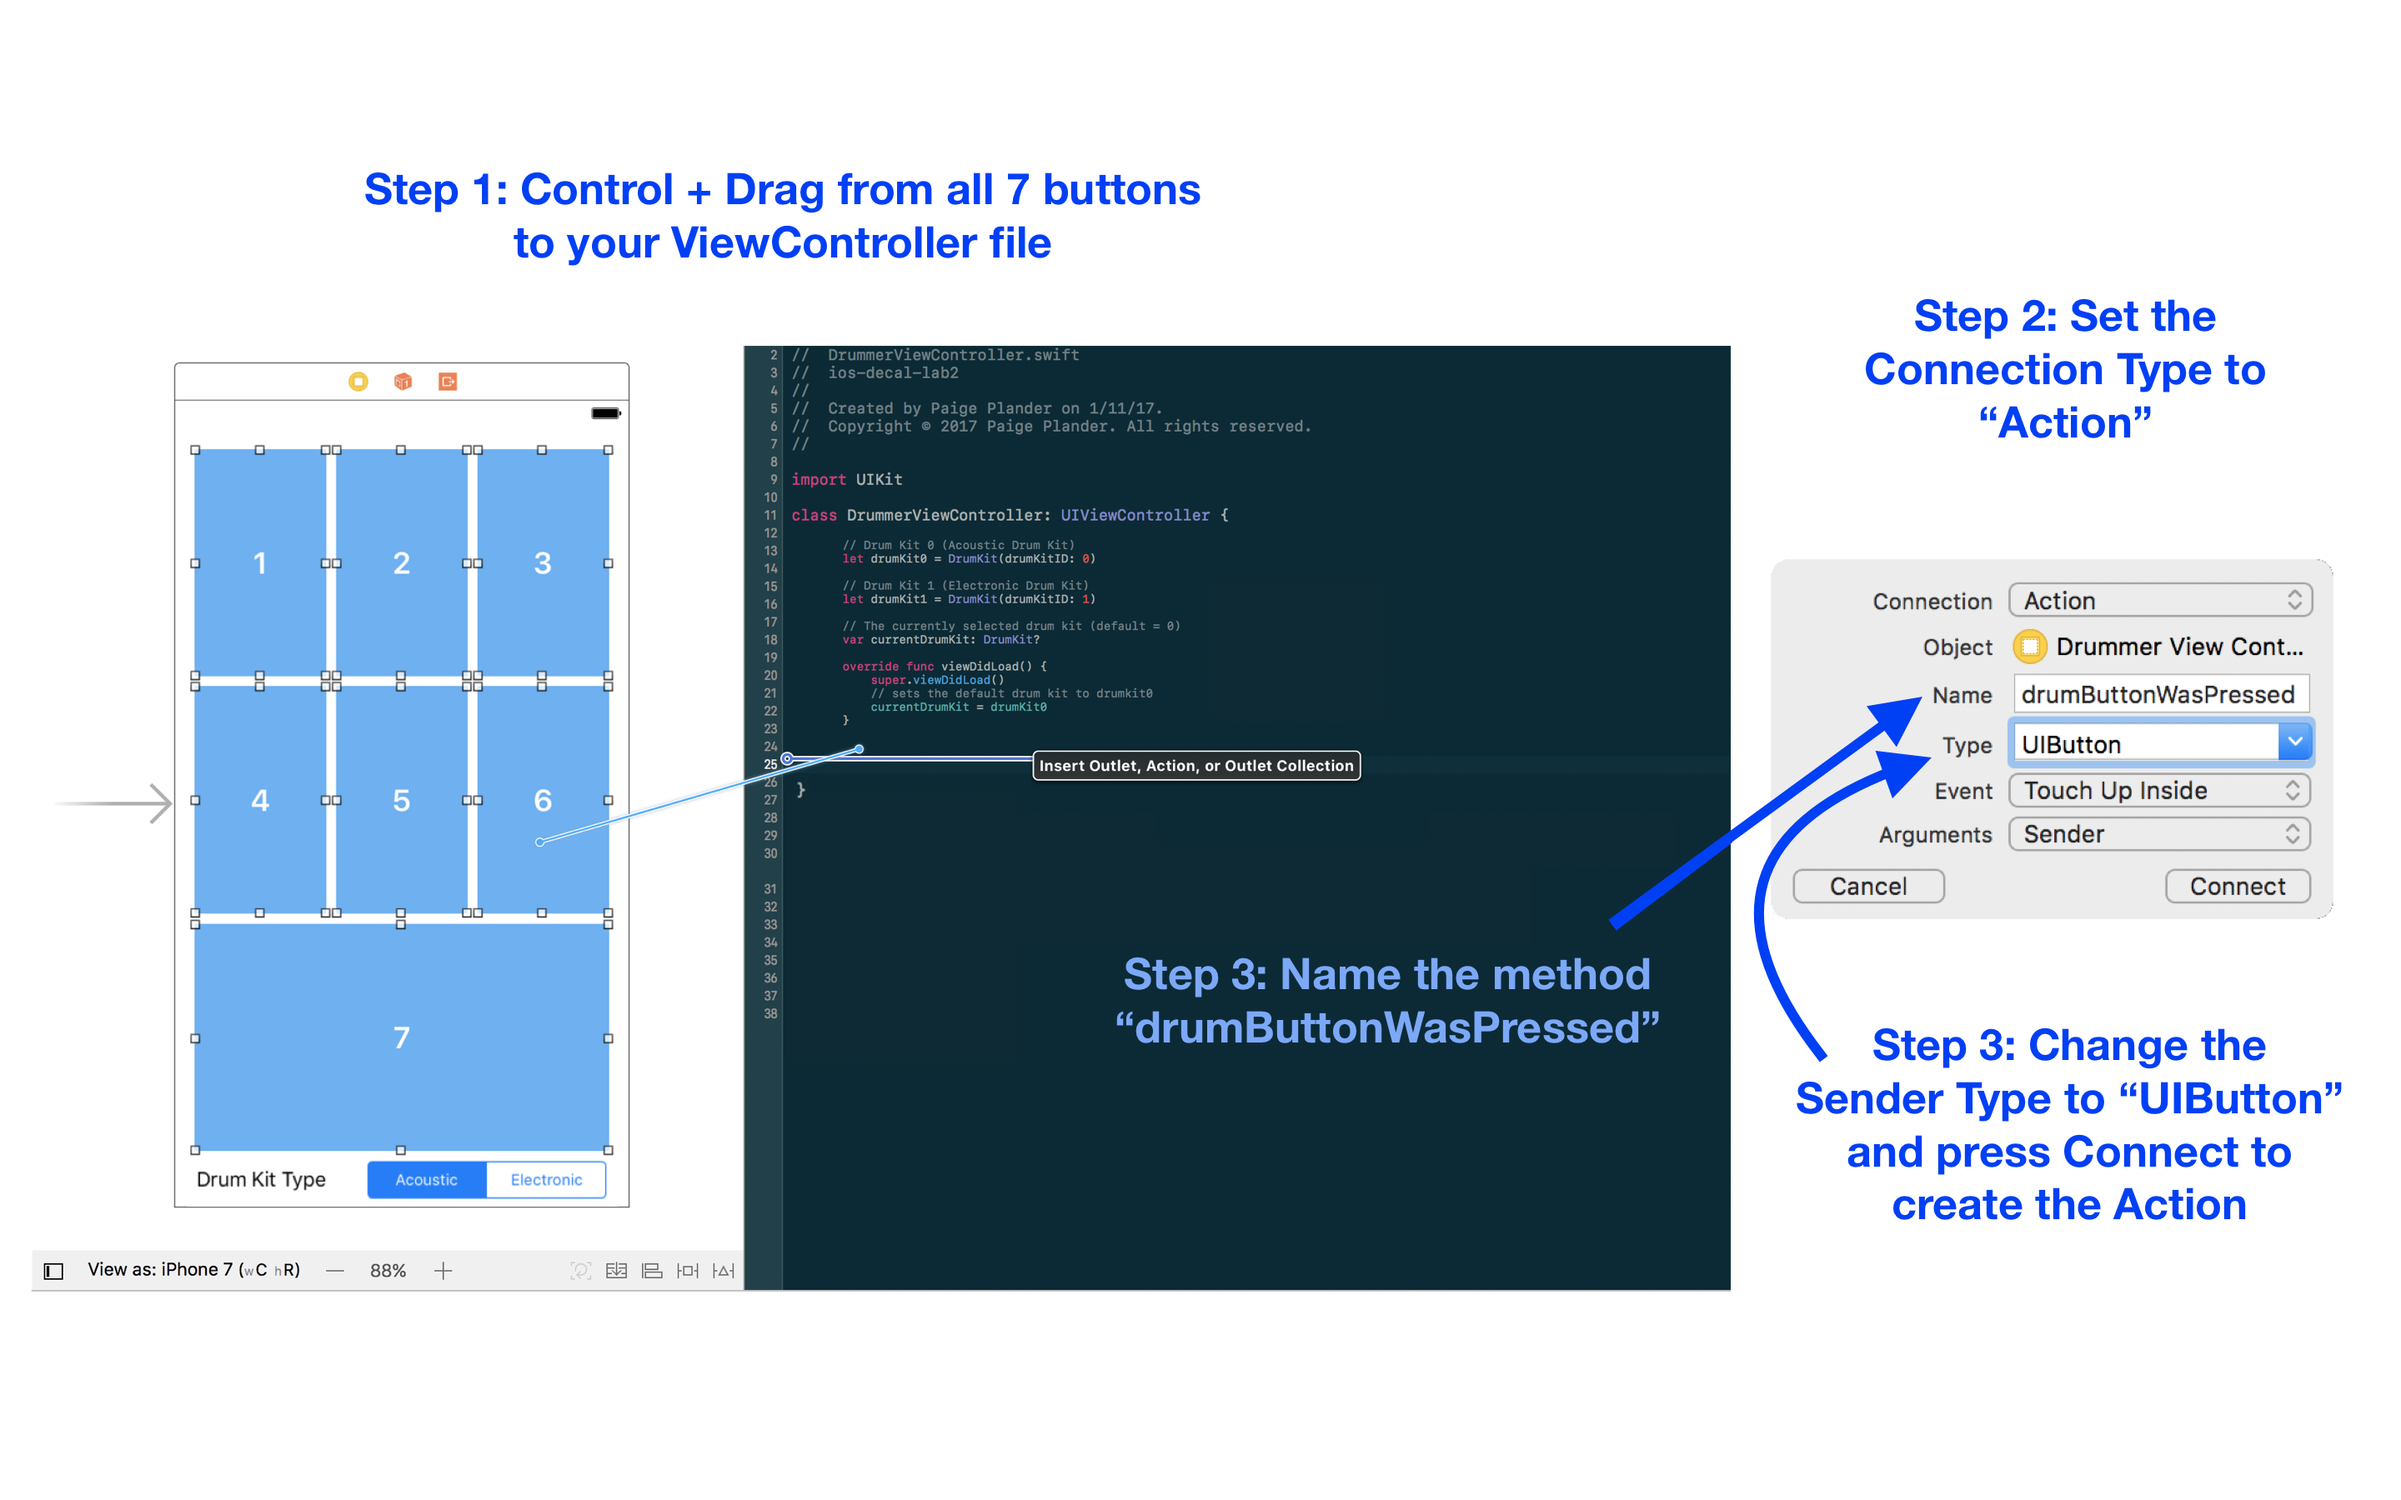
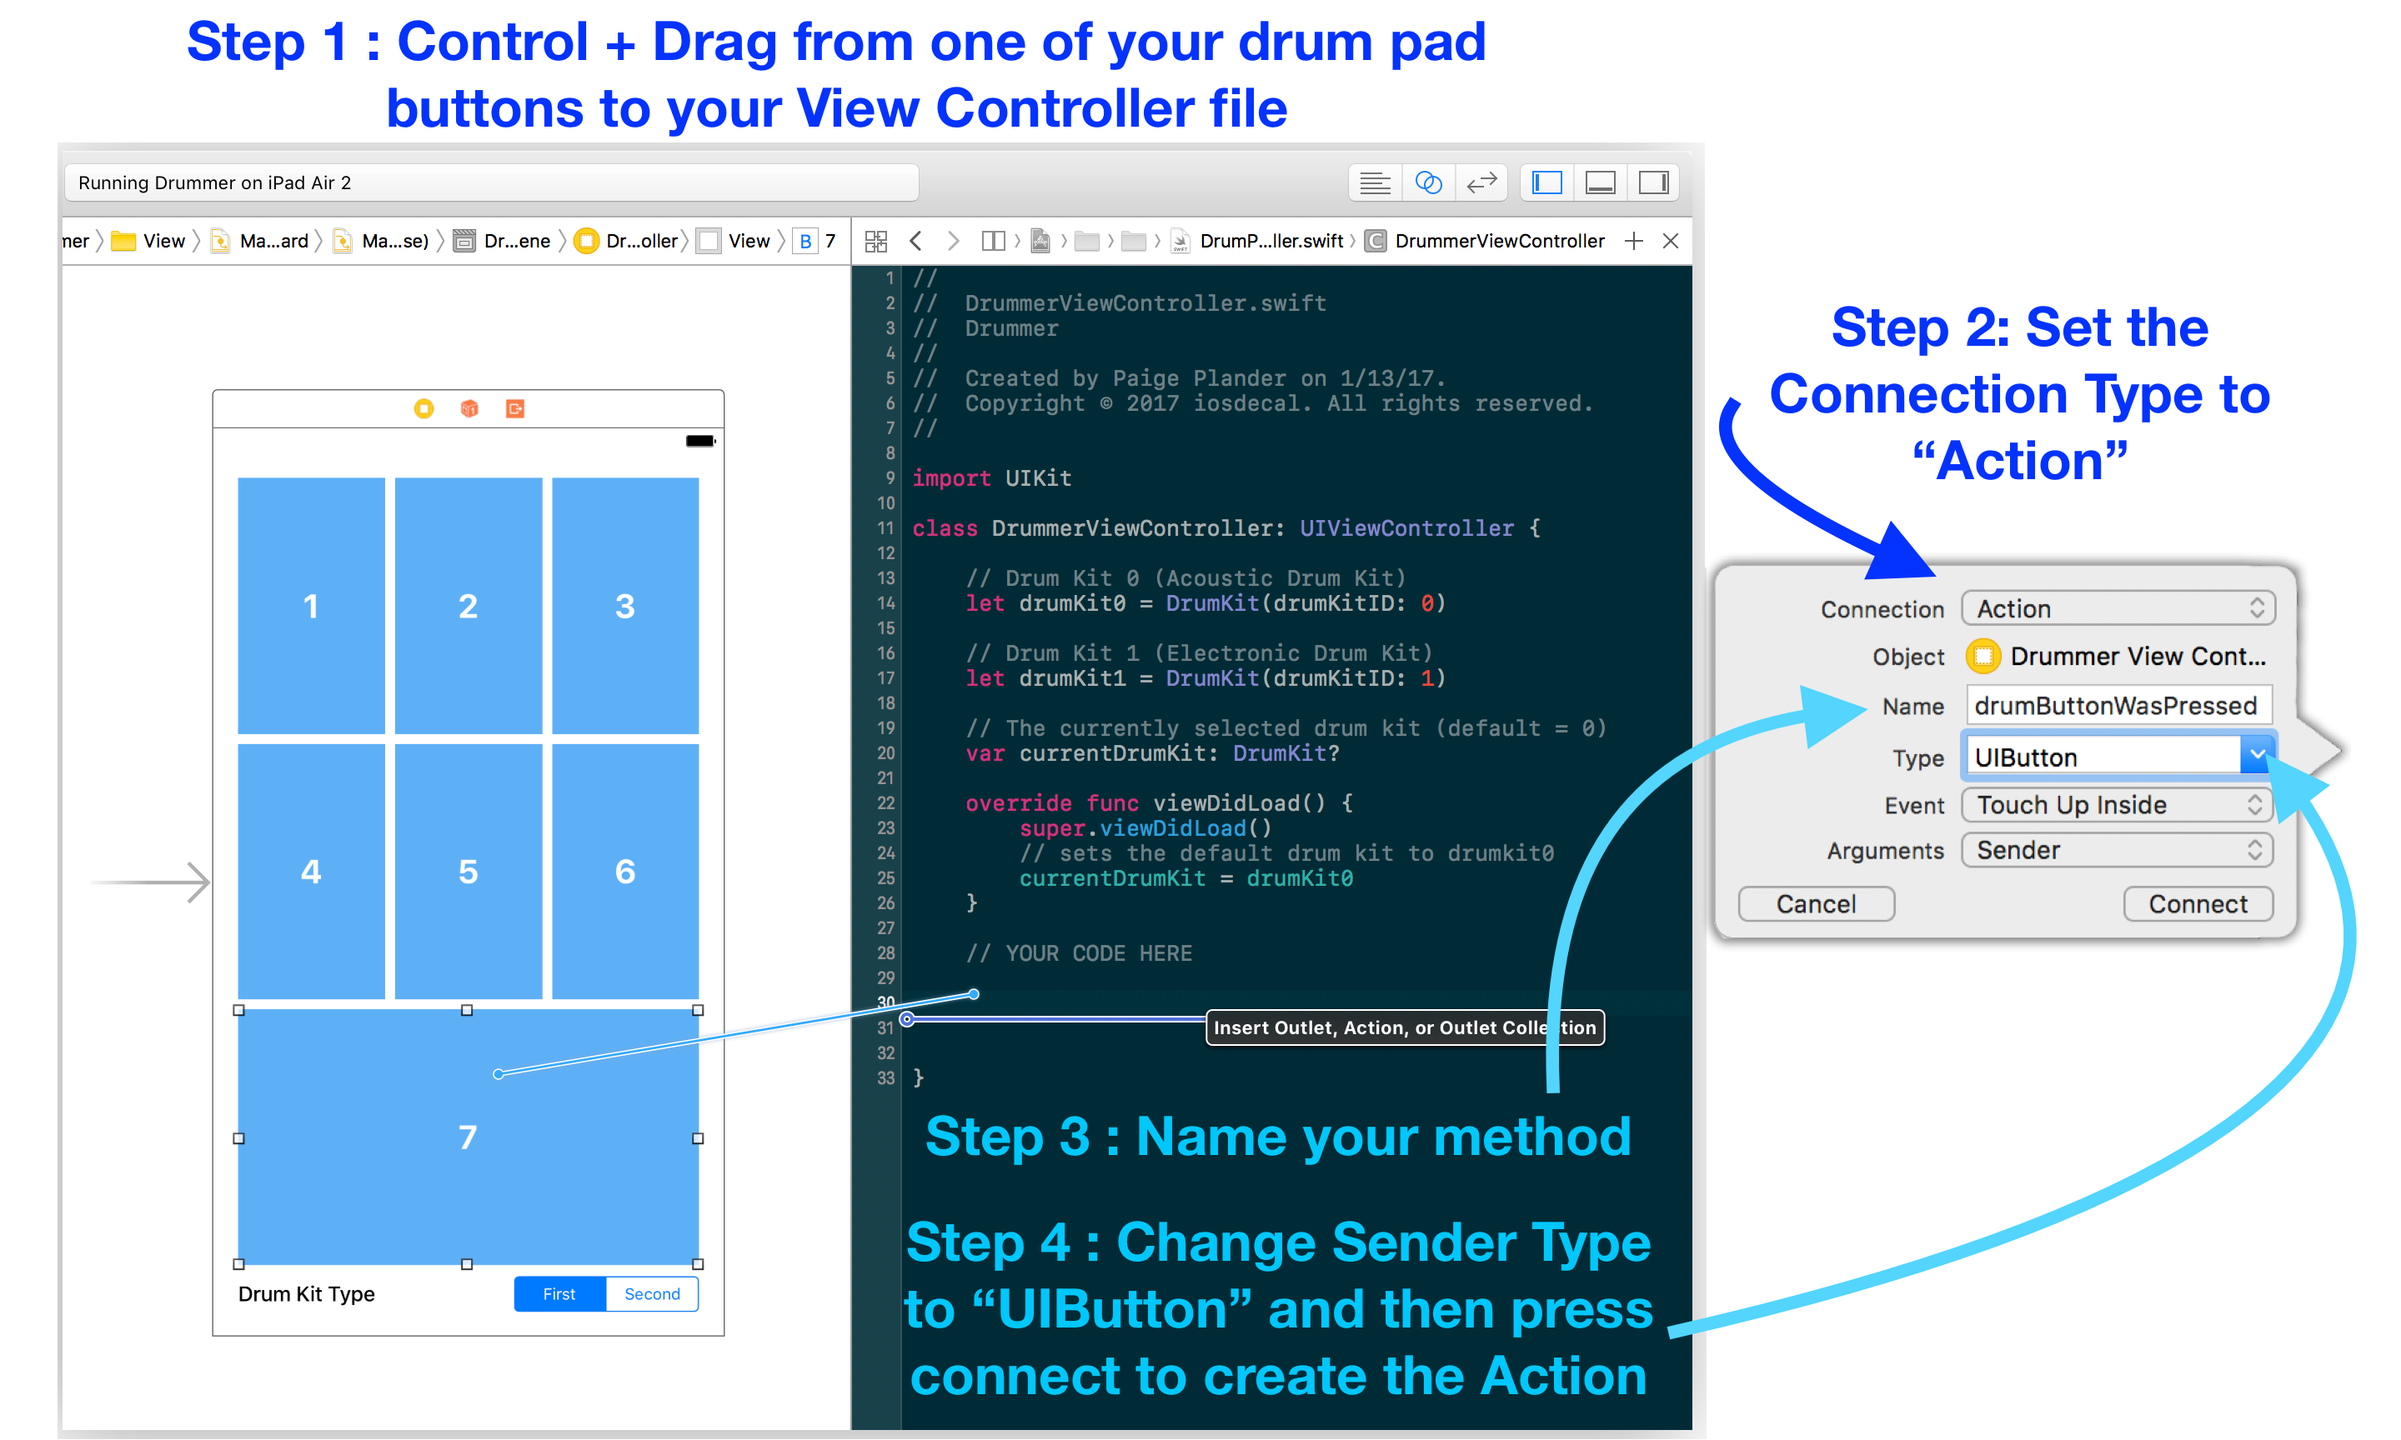
Fixing error about adding multiple actions at once

Changed region(s): [[0.0, 0.0, 1.0, 1.0], [0.75, 0.875, 0.8125, 0.9062]]

diff --git a/README.md b/README.md
@@ -89,14 +89,17 @@ Now we can start connecting the UI elements we created in our Storyboard to our 
 
 Since we wan't our drum pad buttons to play an audio clip when pressed, we'll want to create an *action* in our ViewController for each button.
 
-To do this, **highlight all 7 buttons in your Storyboard, then Control + Drag from them into `DrummerViewController.swift`. The Connection should be an *Action*, the sender type should be set to *UIButton*, and the function name should be set to "drumButtonWasPressed"** (see image below).
+To do this, **highlight one of the buttons in your Storyboard, then Control + Drag from them into `DrummerViewController.swift`. The Connection should be an *Action*, the sender type should be set to *UIButton*, and the function name should be set to "drumButtonWasPressed"** (see image below).
 
 ![alt text](/README-images/part4-2.png)
 
-To check that all your buttons were successfully connected to the IBAction, hover over the small circle next to "drumButtonWasPressed" in DrummerViewController.swift. All 7 buttons should appear highlighted in your Storyboard. If they aren't all highlighted, **click the small icon next to your IBAction "drumButtonWasPressed", and drag from it to each unhighlighted button to connect them** (see image below).
+Since we want all of our buttons to activate this method (not just this one button we control + dragged from), **click the small icon next to your IBAction "drumButtonWasPressed", and drag from it to each of the other buttons to connect them** (see image below).
 
 ![alt text](/README-images/part4-3.png)
 
+To check that all your buttons were successfully connected to the IBAction, hover over the small circle next to "drumButtonWasPressed" in DrummerViewController.swift. All 7 buttons should appear highlighted in your Storyboard.
+
+![alt text](/README-images/part4-4.png)
 
 ### b. Adding Sound to our App ###
 
